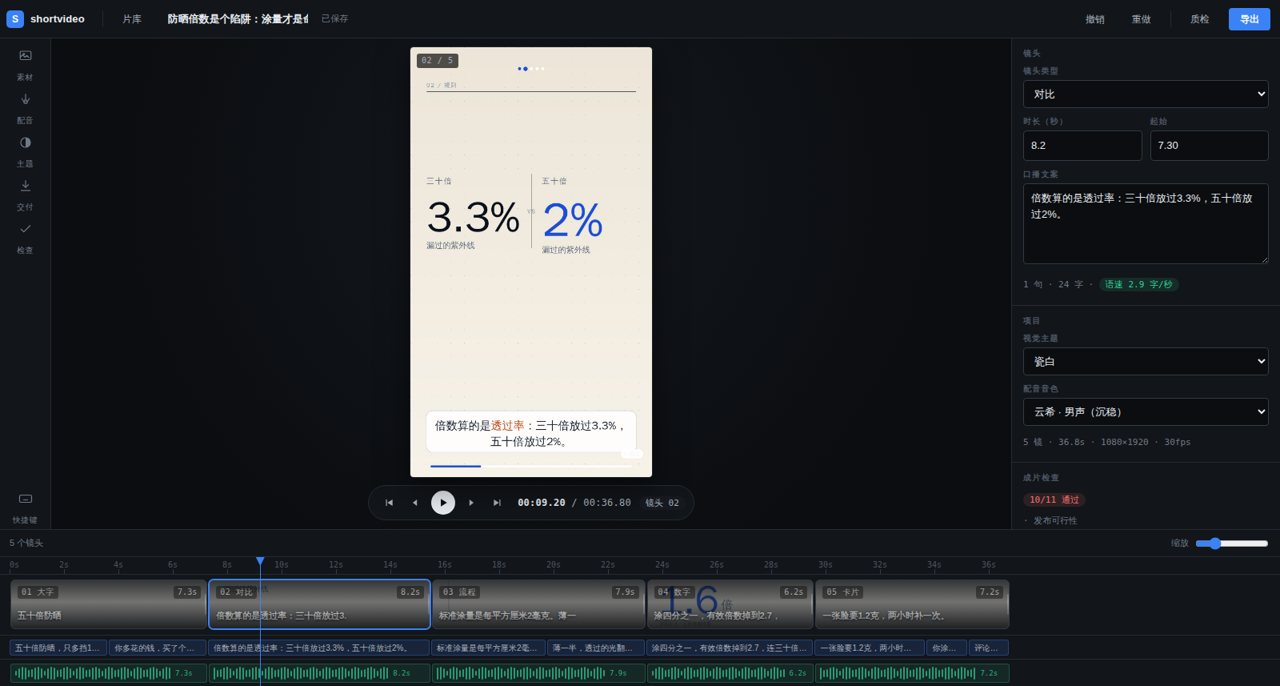
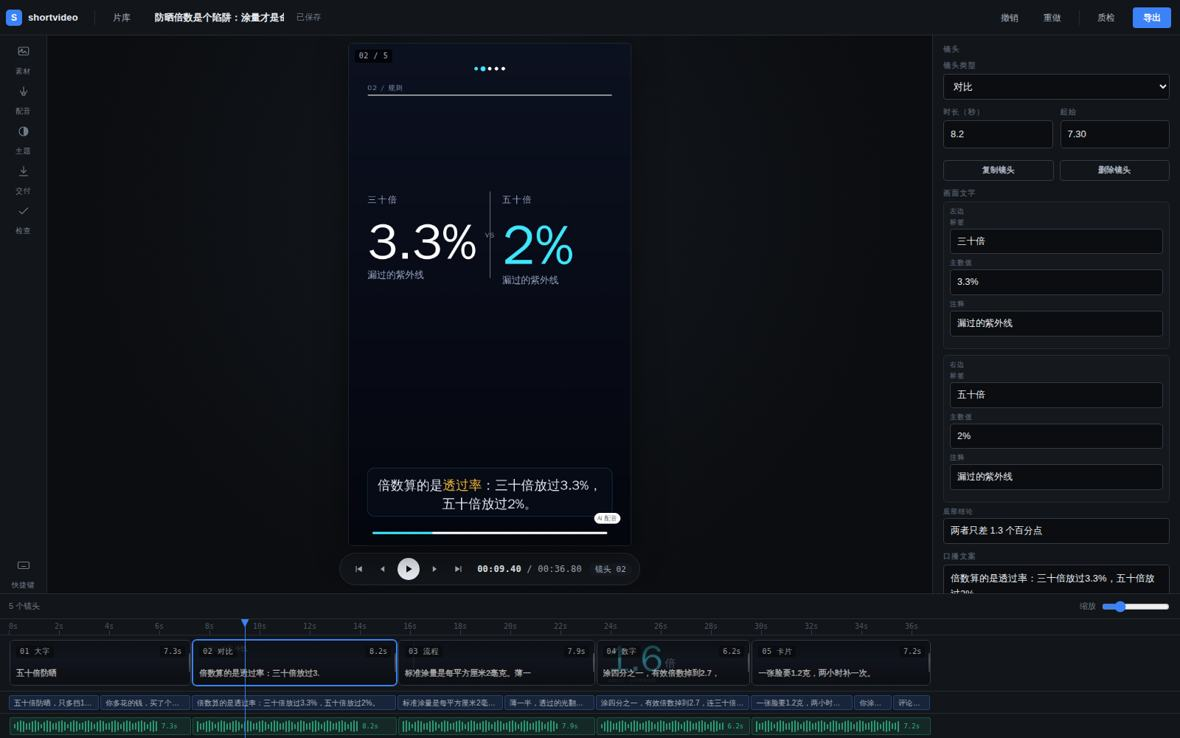
style(app): 复制/删除镜头做成实体按钮，并刷新 README 截图
顶栏的 `.tbtn` 是"无边框文字按钮"，直接放进检查器里看着像不可点的说明文字。
补边框、底色、hover/active 位移，让它们明确是可点的动作。

README 里的剪辑台截图同步更新（现在能看到 02 对比镜头、复制/删除按钮、画面文字分组）。

diff --git a/ui/app/app.css b/ui/app/app.css
@@ -496,4 +496,11 @@ input, textarea, select { font: inherit; color: inherit; }
 
 /* 镜头增删 */
 .shotops { display: flex; gap: 8px; margin: 4px 0 12px; }
-.shotops .tbtn { flex: 1; justify-content: center; }
+/* 顶栏的 .tbtn 是"无边框文字按钮"，放进检查器会显得不可点，这里补成实体按钮 */
+.shotops .tbtn {
+  flex: 1; justify-content: center; height: 28px; border-radius: 4px;
+  border: 1px solid var(--line2); background: var(--bg1); color: var(--ink1);
+  font: 600 11px/1 var(--sans);
+}
+.shotops .tbtn:hover { background: var(--bg3); color: var(--ink0); border-color: var(--line3); }
+.shotops .tbtn:active { transform: translateY(1px); }
